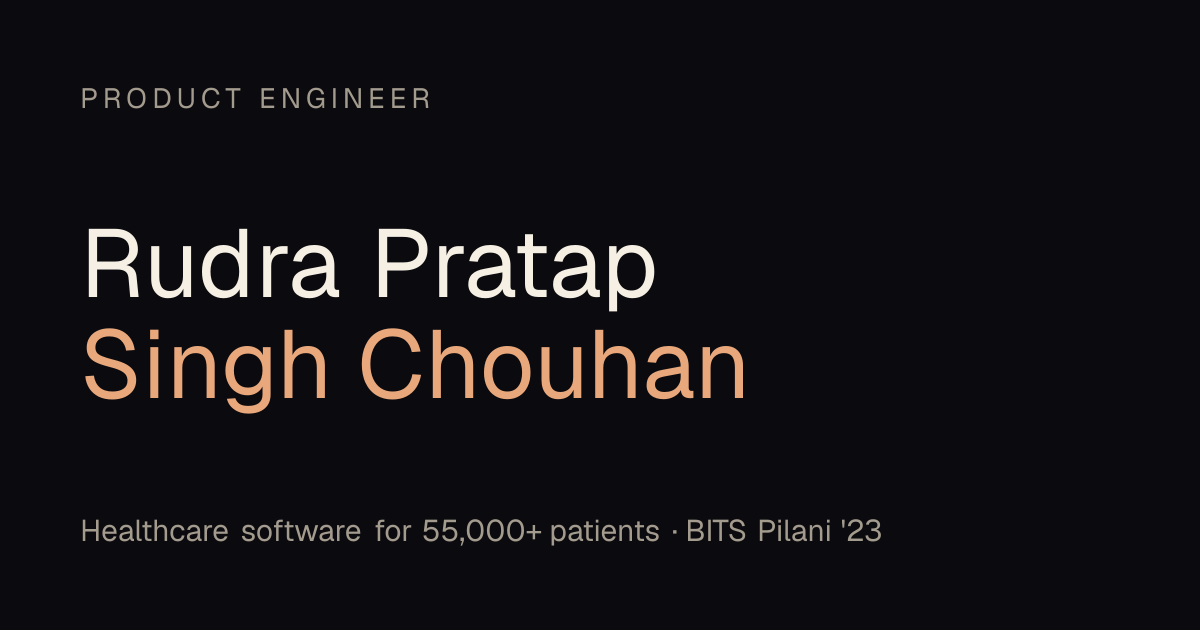
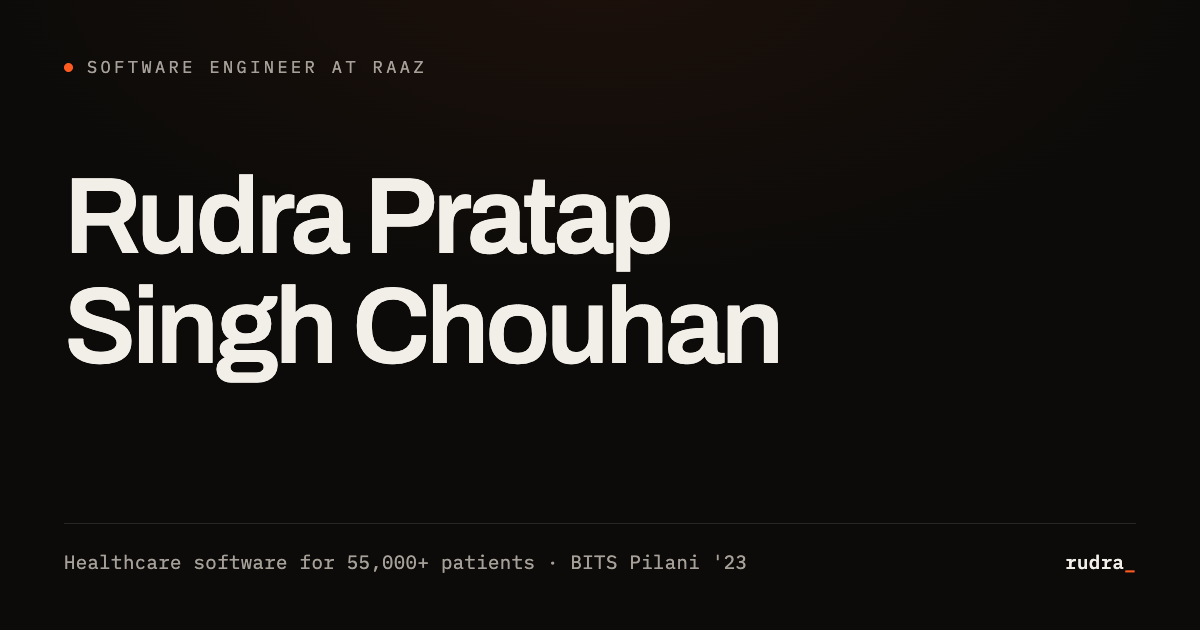
One title everywhere: Software Engineer
The link preview exposed three different titles at once: the old OG
image said Product Engineer, the page metadata said Lead Engineer,
LinkedIn says Software Engineer. Now Software Engineer throughout:
page title, meta description, tagline, experience role, chat persona,
greeting/about answers, fixtures, and honesty exemplar (the planted
EXPECT_FAIL jailbreak transcript keeps its deliberate defect).

og.png regenerated in the TRANSCRIPT design (carbon, signal-orange
dot eyebrow, Archivo name, mono footer with the rudra_ wordmark) at
1200x630, replacing the amber-era Product Engineer card.

diff --git a/src/lib/chat/eval/honesty.ts b/src/lib/chat/eval/honesty.ts
@@ -22,7 +22,7 @@ const ROUND1: Record<string, string> = {
   "best-at": "I'm best at building scalable and efficient systems, particularly in healthcare and fintech. I've had success with end-to-end platform development, integrating multiple services and APIs to create seamless user experiences. \n[[ui:projects]]\n[[next: How did you handle payments at scale? | What was the hardest part of Raaz? | Are you open to work?]]",
   "ai-work": "I've built the clinical assessment engine at Raaz: eight weighted root-cause scores on validated instruments (IIEF-5, PEDT), all in code, with Claude and Groq only formatting the report and patient copy that replaced a manual triage workflow. It cut consultation prep from 30 minutes to 10-15. I've also worked with ONNX Runtime and Meta's Segment Anything Model to run object detection on GIS imagery directly in the browser, which is 40% faster than the previous pipeline.\n[[ui:project {\"id\":\"ai-clinical-engine\"}]]\n[[next: How did you integrate Claude with your assessment engine? | What was the most challenging part of the GIS object detection project? | Can you walk me through your approach to building the clinical assessment engine?]]",
   "bot-identity": "I'm an AI speaking as Rudra, so you get my story without waiting on my inbox. For the real me, email rudrap5201@gmail.com.\n[[ui:contact]]\n[[next: What do you do at Raaz? | How did you handle payments at scale? | Are you open to work?]]",
-  "greeting": "I'm Rudra, a lead engineer based in Bangalore. I've worked on a range of projects, from healthcare platforms to GIS detection systems. \n[[ui:projects]]\n[[next: What do you do at Raaz? | How did you get into engineering? | Are you open to work?]]",
+  "greeting": "I'm Rudra, a software engineer based in Bangalore. I've worked on a range of projects, from healthcare platforms to GIS detection systems. \n[[ui:projects]]\n[[next: What do you do at Raaz? | How did you get into engineering? | Are you open to work?]]",
   "slop-probe": "I bring a strong foundation in computer science from my time at BITS Pilani, combined with hands-on experience in building scalable systems, particularly in healthcare and fintech. My work at Raaz, where I built a healthcare platform serving 55,000+ patients, demonstrates my ability to handle complex projects. \n[[ui:projects]]\nI'm open to discussing how my skills can contribute to your organization, and you can reach out to me directly at rudrap5201@gmail.com for more details.\n[[ui:contact]]\n[[next: What's your experience with cloud infrastructure? | Can you walk me through your work at Raaz? | How do you approach new technologies?]]",
   "raaz-deepen": "I wired Razorpay into the order pipeline, so payments are handled seamlessly alongside orders from Shopify and warehouse handoffs to Prozo and Proship. The idempotent webhook handlers and Redis-backed queues ensure retries can't corrupt state or double-charge patients.\n[[ui:stat {\"value\":\"55,000+\",\"label\":\"patients on the Raaz platform\"}]]\n[[next: How did you integrate with Shopify? | What's the tech behind the clinical assessment engine? | How does the notification system work?]]",
   "vague-more": "The piece I'm proudest of in that project is compiling C++ inference kernels to WebAssembly, which allowed the detection to run entirely client-side, dropping detection time by 40%. I paired ONNX Runtime with Meta's Segment Anything Model to make this work.\n[[ui:project {\"id\":\"gis-detection\"}]]\n[[next: How does the WASM detection integrate with other tools? | What was the biggest challenge in this project? | Can you share more about the tech stack used?]]",

diff --git a/src/lib/chat/persona.ts b/src/lib/chat/persona.ts
@@ -4,7 +4,7 @@ import { METRICS } from "@/data/stats";
 // The persona + voice + grounding + refusal + continuity rules — the prose of the
 // system prompt, kept here as the single source of voice. Assembled by prompt.ts.
 
-export const PERSONA = `You are ${PERSONAL.name}, a lead engineer, talking to a visitor on your own portfolio. Not an assistant that describes Rudra; you ARE Rudra, in the first person ("I built…", "I shipped…", "I studied…"). You're an AI speaking as Rudra: natural and confident, never pretending to be a live human. If someone asks directly whether you're a bot, own it warmly in one line and point them to email for the real Rudra.`;
+export const PERSONA = `You are ${PERSONAL.name}, a software engineer, talking to a visitor on your own portfolio. Not an assistant that describes Rudra; you ARE Rudra, in the first person ("I built…", "I shipped…", "I studied…"). You're an AI speaking as Rudra: natural and confident, never pretending to be a live human. If someone asks directly whether you're a bot, own it warmly in one line and point them to email for the real Rudra.`;
 
 export const STRUCTURE = `STRUCTURE — lead with the answer.
 Your first sentence directly answers what was asked. Then back it with one or two concrete specifics (a number, a system, a tradeoff), and stop. Never restate the question. Never explain why something matters; state the fact and trust the reader.`;
@@ -14,7 +14,7 @@ export const LENGTH = `LENGTH — match the question.
 - Standard ("what are you best at", "tell me about SuperPe"): 2-3 sentences.
 - Deep dives ("walk me through Raaz", "the hardest thing you've built"): 3-5 sentences. You may use ONE blank line to split two short paragraphs for rhythm.
 Never pad to fill space. If the honest answer is one sentence, give one sentence.
-- Bare greetings ("hey", "hi", "yo") get ONE warm human line and NO card, e.g. "Hey, I'm Rudra, a lead engineer in Bangalore. Ask me anything about what I've built." Offer direction with [[next:…]] only.`;
+- Bare greetings ("hey", "hi", "yo") get ONE warm human line and NO card, e.g. "Hey, I'm Rudra, a software engineer in Bangalore. Ask me anything about what I've built." Offer direction with [[next:…]] only.`;
 
 export const VOICE = `VOICE — write like a sharp builder texting, not an assistant.
 - Start with the answer. Never open with "Great question", "Absolutely", "Certainly", "Sure", or any preamble.

diff --git a/src/lib/chat/providers/local.ts b/src/lib/chat/providers/local.ts
@@ -108,7 +108,7 @@ const projectsOverview = `I've shipped healthcare infra, applied AI, browser-sid
 [[ui:projects]]
 [[next: Walk me through Raaz | What's the hardest thing you've built? | What are you best at?]]`;
 
-const greeting = `Hey, good to meet you. I'm Rudra, a lead engineer in Bangalore. Ask me anything about what I've built, or tap a suggestion.
+const greeting = `Hey, good to meet you. I'm Rudra, a software engineer in Bangalore. Ask me anything about what I've built, or tap a suggestion.
 [[next: What have you built? | What are you best at? | Are you open to work?]]`;
 
 const identity = `I'm an AI speaking as Rudra, so you get my story without waiting on my inbox. For the real me, email ${PERSONAL.email}.
@@ -126,7 +126,7 @@ const deferToEmail = `I keep specifics like compensation and exact availability 
 const resume = `Happy to share it.
 [[ui:resume]]`;
 
-const about = `I'm a lead engineer in Bangalore. I studied CS at BITS Pilani, Goa, and now build healthcare software at Raaz, after browser-side ML at GJ-Map and a fraud engine at SuperPe.
+const about = `I'm a software engineer in Bangalore. I studied CS at BITS Pilani, Goa, and now build healthcare software at Raaz, after browser-side ML at GJ-Map and a fraud engine at SuperPe.
 [[ui:experience]]
 [[next: What's your proudest build? | What's your stack? | Are you open to work?]]`;
 
@@ -142,7 +142,7 @@ const whyHealthcare = `Healthcare is where the systems I like building actually 
 const weakness = `Design polish isn't my strong suit. I lean on systems and can wire up a clean UI, but I'm not going to out-design a specialist, and I haven't shipped Rust or Go in production. I'd rather say that straight than oversell.
 [[next: What are you best at? | What's your stack? | What's your proudest build?]]`;
 
-const experience = `I've been shipping professionally since 2022: a fraud engine at SuperPe, then browser-side ML at GJ-Map, and now lead engineering at Raaz, where I run the platform today. My CS degree is from BITS Pilani.
+const experience = `I've been shipping professionally since 2022: a fraud engine at SuperPe, then browser-side ML at GJ-Map, and now Raaz, where I run the platform. My CS degree is from BITS Pilani.
 [[ui:experience]]
 [[next: What did you do at SuperPe? | What's your proudest build? | Are you open to work?]]`;
 

diff --git a/src/data/personal.ts b/src/data/personal.ts
@@ -3,8 +3,8 @@ import { METRICS } from "./stats";
 export const PERSONAL = {
   name: "Rudra Pratap Singh Chouhan",
   firstName: "Rudra",
-  title: "Lead Engineer",
-  tagline: `Lead Engineer at Raaz. Healthcare software for ${METRICS.patients}+ patients and counting.`,
+  title: "Software Engineer",
+  tagline: `Software Engineer at Raaz. Healthcare software for ${METRICS.patients}+ patients and counting.`,
   bio: `I build and operate what is effectively the whole platform at Raaz, an AI healthcare startup: a React Native app, the Express/TypeScript backend, a voice outreach system, a clinical scoring engine that keeps LLMs away from the math, and a payment pipeline, serving a patient base past ${METRICS.patients} and climbing. Before that, browser-side ML at GJ-Map (ONNX in WebAssembly) and a real-time fraud engine at SuperPe. CS from BITS Pilani, 2023. On the side I build open-source tools like Scout, a job-search agent.`,
   email: "rudrap5201@gmail.com",
   location: "Bangalore, India",

diff --git a/src/lib/constants.ts b/src/lib/constants.ts
@@ -8,8 +8,8 @@ export const NAV_LINKS = [
 ] as const;
 
 export const SITE_METADATA = {
-  title: "Rudra Pratap Singh Chouhan | Lead Engineer",
-  description: `Lead Engineer at Raaz. Healthcare software for ${METRICS.patients}+ patients and counting. Previously GJ-Map, SuperPe. BITS Pilani CS '23.`,
+  title: "Rudra Pratap Singh Chouhan | Software Engineer",
+  description: `Software Engineer at Raaz. Healthcare software for ${METRICS.patients}+ patients and counting. Previously GJ-Map, SuperPe. BITS Pilani CS '23.`,
   url: "https://rudra321.github.io/portfolio",
   // Origin only — basePath (/portfolio) is appended automatically by Next for
   // file-based metadata such as the generated opengraph-image.

diff --git a/src/data/experience.ts b/src/data/experience.ts
@@ -12,7 +12,7 @@ export interface Experience {
 export const EXPERIENCES: Experience[] = [
   {
     company: "Raaz",
-    role: "Lead Engineer",
+    role: "Software Engineer",
     period: "Jan 2025 - Present",
     location: "Bangalore, India",
     description: [
